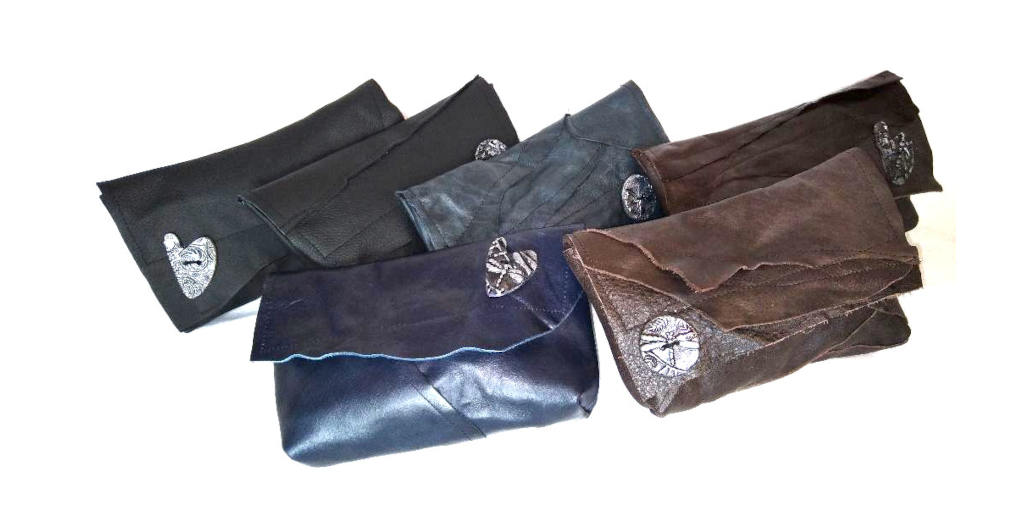
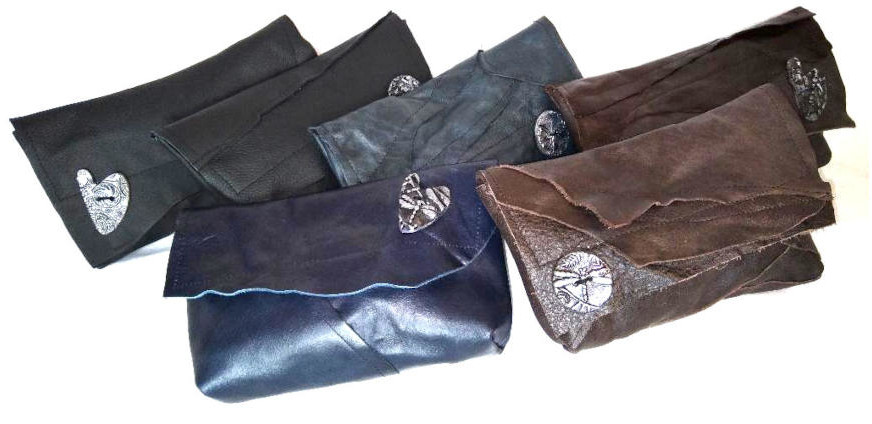
changes to images

diff --git a/CSS/style.css b/CSS/style.css
@@ -49,15 +49,17 @@
 
     .hero-img {
 
-        width: 1000px; /* Adjust the width as needed */
-        height: auto; /* Maintain the aspect ratio */
-        border: 0px;
-        border-radius: 5px;
+        
+      max-width: 100%; /* Make the image responsive, ensuring it doesn't exceed the width of its container */
+      height: auto; /* Maintain the aspect ratio of the image */
+      display: block; /* Remove extra space below the image */
+      margin: 0 auto;
 
     }
 
-    .button-img {
-        width: 200px; /* Adjust the width as needed */
+    .button-img 
+    {
+       width: 200px; /* Adjust the width as needed */
         height: auto; /* Maintain the aspect ratio */
         border: 0px;
         border-radius: 5px;
@@ -65,15 +67,23 @@
         padding-left: 2%;
     }
     section {
-      flex: 1;
+      flex: 3; /* Adjust the flex property to change the width */
+      min-width: 500px; /* Set a minimum width to prevent items from shrinking too much */
+      margin: 10px;
+      padding: 20px;
+      border: 1px solid #ccc;
+      box-sizing: border-box;
+    }
+      /*flex: 3;
       margin: 0.5em;
       padding: 1em;
       border: 1px solid #ddd;
       border-radius: 5px;
       background-color: #f9f9f9;
-    }
+    }*/
 
     #logo {
+      
         width: 50px; /* Adjust the width as needed */
         height: auto; /* Maintain the aspect ratio */
         border: 0px;
@@ -82,15 +92,13 @@
 
     
        
-    
-
     .about {
+      
         flex: 3;
+        flex-grow: 2;
     }
 
-    .buy {
-        flex: 1;
-    }
+    
     footer {
       background-color:#646464;
       color: white;

diff --git a/index.html b/index.html
@@ -28,18 +28,25 @@
   </nav>
   
   <main>
+    
     <section>
-      <h2></h2>
-      <img src="images/Elenaor clutch's2.resize.jpg"  alt="Collection of handmade clutch bags" 
-      class="hero-img">
-      <img src="images/Round brown-black.jpg"  alt="Handmade button with dragonfly pattern" 
-      class="button-img">
+      <div class="row">
+        <div class="column">
+      <figure><img src="images/Elenaor clutch's2.resize.jpg"  alt="Collection of handmade clutch bags" 
+      class="hero-img"> <figcaption>The Eleanor Clutch, £32.00.</figcaption></figure>
+      <figure></figure><img src="images/buttons.png"  alt="Handmade button with dragonfly pattern" 
+      class="hero-img"> <figcaption>&nbsp; &nbsp; &nbsp; &nbsp; Handmade buttons, £4.00.</figcaption></figure>
+
+<!--<div class="row">
+        <div class="column">
       <img src="images/Leo.jpg"  alt="Handmade button of astrology sign leo"
       class="button-img">
       <img src="images/round.jpg"  alt="Handmade button with cog pattern"
       class="button-img">
       <img src="images/Gemini.jpg"  alt="Handmade button of astrology sign Gemini"
-      class="button-img">
+  
+      class="button-img"> -->
+      </div><div></div><div></div>
     </section>
 
     <section>
